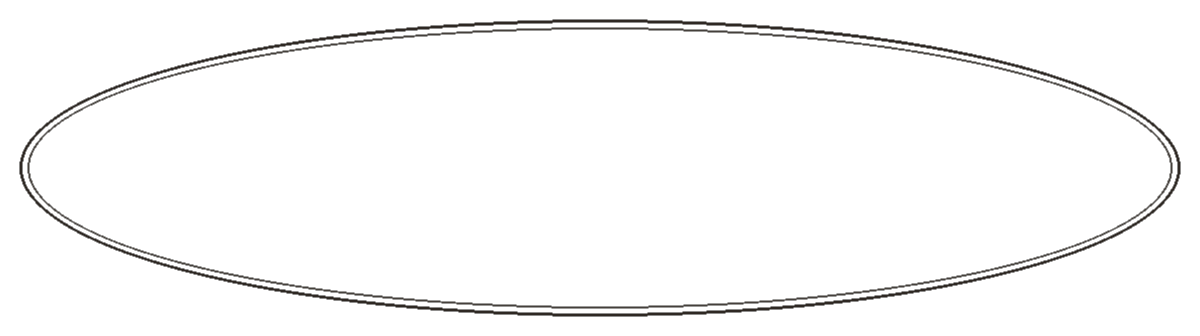
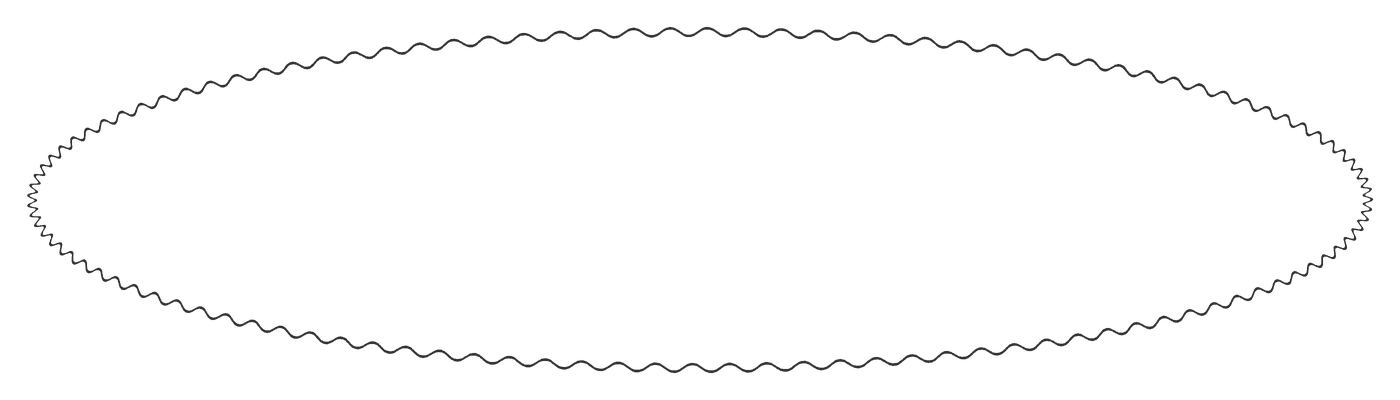
Rebuild tip oval with fine scallops matching Tips frames (flow205).
Replace big-lobe / smooth double-stroke platter with an oval whose
edge uses the frame-wide fine-scallop waveform (same family as Tips).
Keep even pad and optical centre from flow204; bump cache-bust.

Changed region(s): [[0.0, 0.0595, 0.9867, 0.9524], [0.0308, 0.3274, 0.0617, 0.4167]]

diff --git a/menus-print.js b/menus-print.js
@@ -526,7 +526,7 @@
     // Real Canva/print frames via border-image so waves sit in the border
     // gutter and never cut through dish text (unlike stretched SVG/PNG fill).
     // box = tight scallop, squarer corners; wide = looser wave, rounder corners.
-    // Tip-only also adds scallop-platter (true oval silhouette via frame-platter.png).
+    // Tip-only also adds scallop-platter (oval + fine scallops via frame-platter.png).
     var cls = kind === 'box' ? 'scallop scallop-box' : 'scallop scallop-wide';
     if (extraCls) cls += ' ' + String(extraCls).trim();
     return '<div class="' + cls + '"><div class="scallop-pad">' + inner + '</div></div>';
@@ -549,7 +549,7 @@
   }
 
   /** Two matching rectangles never sit side by side — neighbour uses the other wave.
-   *  Tip-only sell words stay the oval platter; flip the other column instead. */
+   *  Tip-only sell words stay the fine-scallop oval; flip the other column instead. */
   function contrastAdjacentScallops(leftHtml, rightHtml) {
     var lk = firstScallopKind(leftHtml);
     var rk = firstScallopKind(rightHtml);
@@ -1266,9 +1266,9 @@
       }
       if (!tipOnly) noteInner += extras.belowHtml || '';
       if (!wantFrame) return '<div class="sec-plain">' + noteInner + '</div>';
-      // Tip-only chrome: always the large oval / platter (wide + scallop-platter) —
-      // never rect box, never bare text. Callers that pass frame:'box' for filled
-      // sandwiches must not shrink tip-only sell words into a rectangular scallop.
+      // Tip-only chrome: always the fine-scallop oval (wide + scallop-platter) —
+      // never rect box, never bare text, never big-lobe waves. Callers that pass
+      // frame:'box' for filled sandwiches must not shrink tip-only into a rect.
       if (tipOnly) {
         frameKind = 'wide';
         return scallop(noteInner, frameKind, 'scallop-platter');
@@ -4524,10 +4524,10 @@
       '.promo-date{font-family:var(--sans);font-weight:500;font-size:9.5pt;letter-spacing:.02em;text-transform:none;color:#5a534a}' +
       '.sandwich-promo .note-line{font-weight:500}' +
       '.sandwich-promo .desc{font-weight:300;color:#5a534a}' +
-      /* Tip-only sell oval: true geometric ellipse (frame-platter.png double-stroke),
-         NOT the rectangular frame-wide.png scallop and NOT a lumpy cloud lobe.
-         Kill border-image with !important so density rules never restore a dashed rect. */
-      /* Tip-only: classy platter hugs the sell words; text optically centred. */
+      /* Tip-only sell oval: ellipse + fine scallops (frame-platter.png), same visual
+         family as Tips / frame-wide section borders — NOT big-lobe platter waves,
+         NOT a plain double-stroke. Kill border-image so density never restores a rect. */
+      /* Tip-only: fine-scallop oval hugs the sell words; text optically centred. */
       '.sandwich-tip-only{' +
         'display:flex;flex-direction:column;align-items:center;justify-content:center;' +
         'text-align:center;width:max-content;max-width:100%;margin:0 auto;gap:0}' +

diff --git a/tests/menus.test.js b/tests/menus.test.js
@@ -753,8 +753,8 @@ assert(page.indexOf('JS already placed the food map') !== -1 &&
   'generate lets Gemini refine Best-fit widths only — not locked shapes or Sharing stacks');
 assert(ingestJs.indexOf('mammoth') !== -1 && ingestJs.indexOf('readDocx') !== -1, 'Word .docx ingest via mammoth');
 assert(page.indexOf('.docx') !== -1 && page.indexOf('wordprocessingml') !== -1, 'upload accepts Word .docx');
-assert(page.indexOf('flow204') !== -1, 'menus page cache-bust is flow204');
-assert(fs.readFileSync(path.join(root, 'index.html'), 'utf8').indexOf('flow204') !== -1, 'hub menus link cache-bust is flow204');
+assert(page.indexOf('flow205') !== -1, 'menus page cache-bust is flow205');
+assert(fs.readFileSync(path.join(root, 'index.html'), 'utf8').indexOf('flow205') !== -1, 'hub menus link cache-bust is flow205');
 (function checkMenusStaffStableEntry() {
   var staffPath = path.join(root, 'menus-staff.html');
   assert(fs.existsSync(staffPath), 'menus-staff.html stable staff entry exists');

diff --git a/index.html b/index.html
@@ -604,7 +604,7 @@
       'giftcards-eightbells': 'https://www.eightbellsbolney.com/staff/vouchers',
       // Standalone Teya CSV reader (browser-only). Does not feed paperwork.
       'cardtakings-windmill': 'card-takings.html?venue=windmill',
-      'menus-eightbells': 'menus.html?v=20261009-flow204',
+      'menus-eightbells': 'menus.html?v=20261009-flow205',
       'rooms-windmill': 'https://rooms.windmilllittleworth.com',
       'payroll': 'https://owner.kinfoldinns.co.uk/payroll.html?v=20260901-xero-pull-timeout',
       'staffhub': 'https://script.google.com/macros/s/AKfycbwcE86RmdBYqgYESAjENcMmrBDW4UZjg9NnpSOnYxnSdwdc1IoRmJUgH900qnEp_ov7/exec'

diff --git a/menus.html b/menus.html
@@ -426,9 +426,9 @@
     <div class="menus no-print" id="menuPicker" role="tablist" aria-label="Which menu"></div>
     <div id="editor"></div>
   </main>
-  <script src="menus.js?v=20261009-flow204"></script>
-  <script src="menus-print.js?v=20261009-flow204"></script>
-  <script src="menus-ingest.js?v=20261009-flow204"></script>
+  <script src="menus.js?v=20261009-flow205"></script>
+  <script src="menus-print.js?v=20261009-flow205"></script>
+  <script src="menus-ingest.js?v=20261009-flow205"></script>
   <script>
     if (window.parent !== window) document.documentElement.classList.add('iframed');
 
